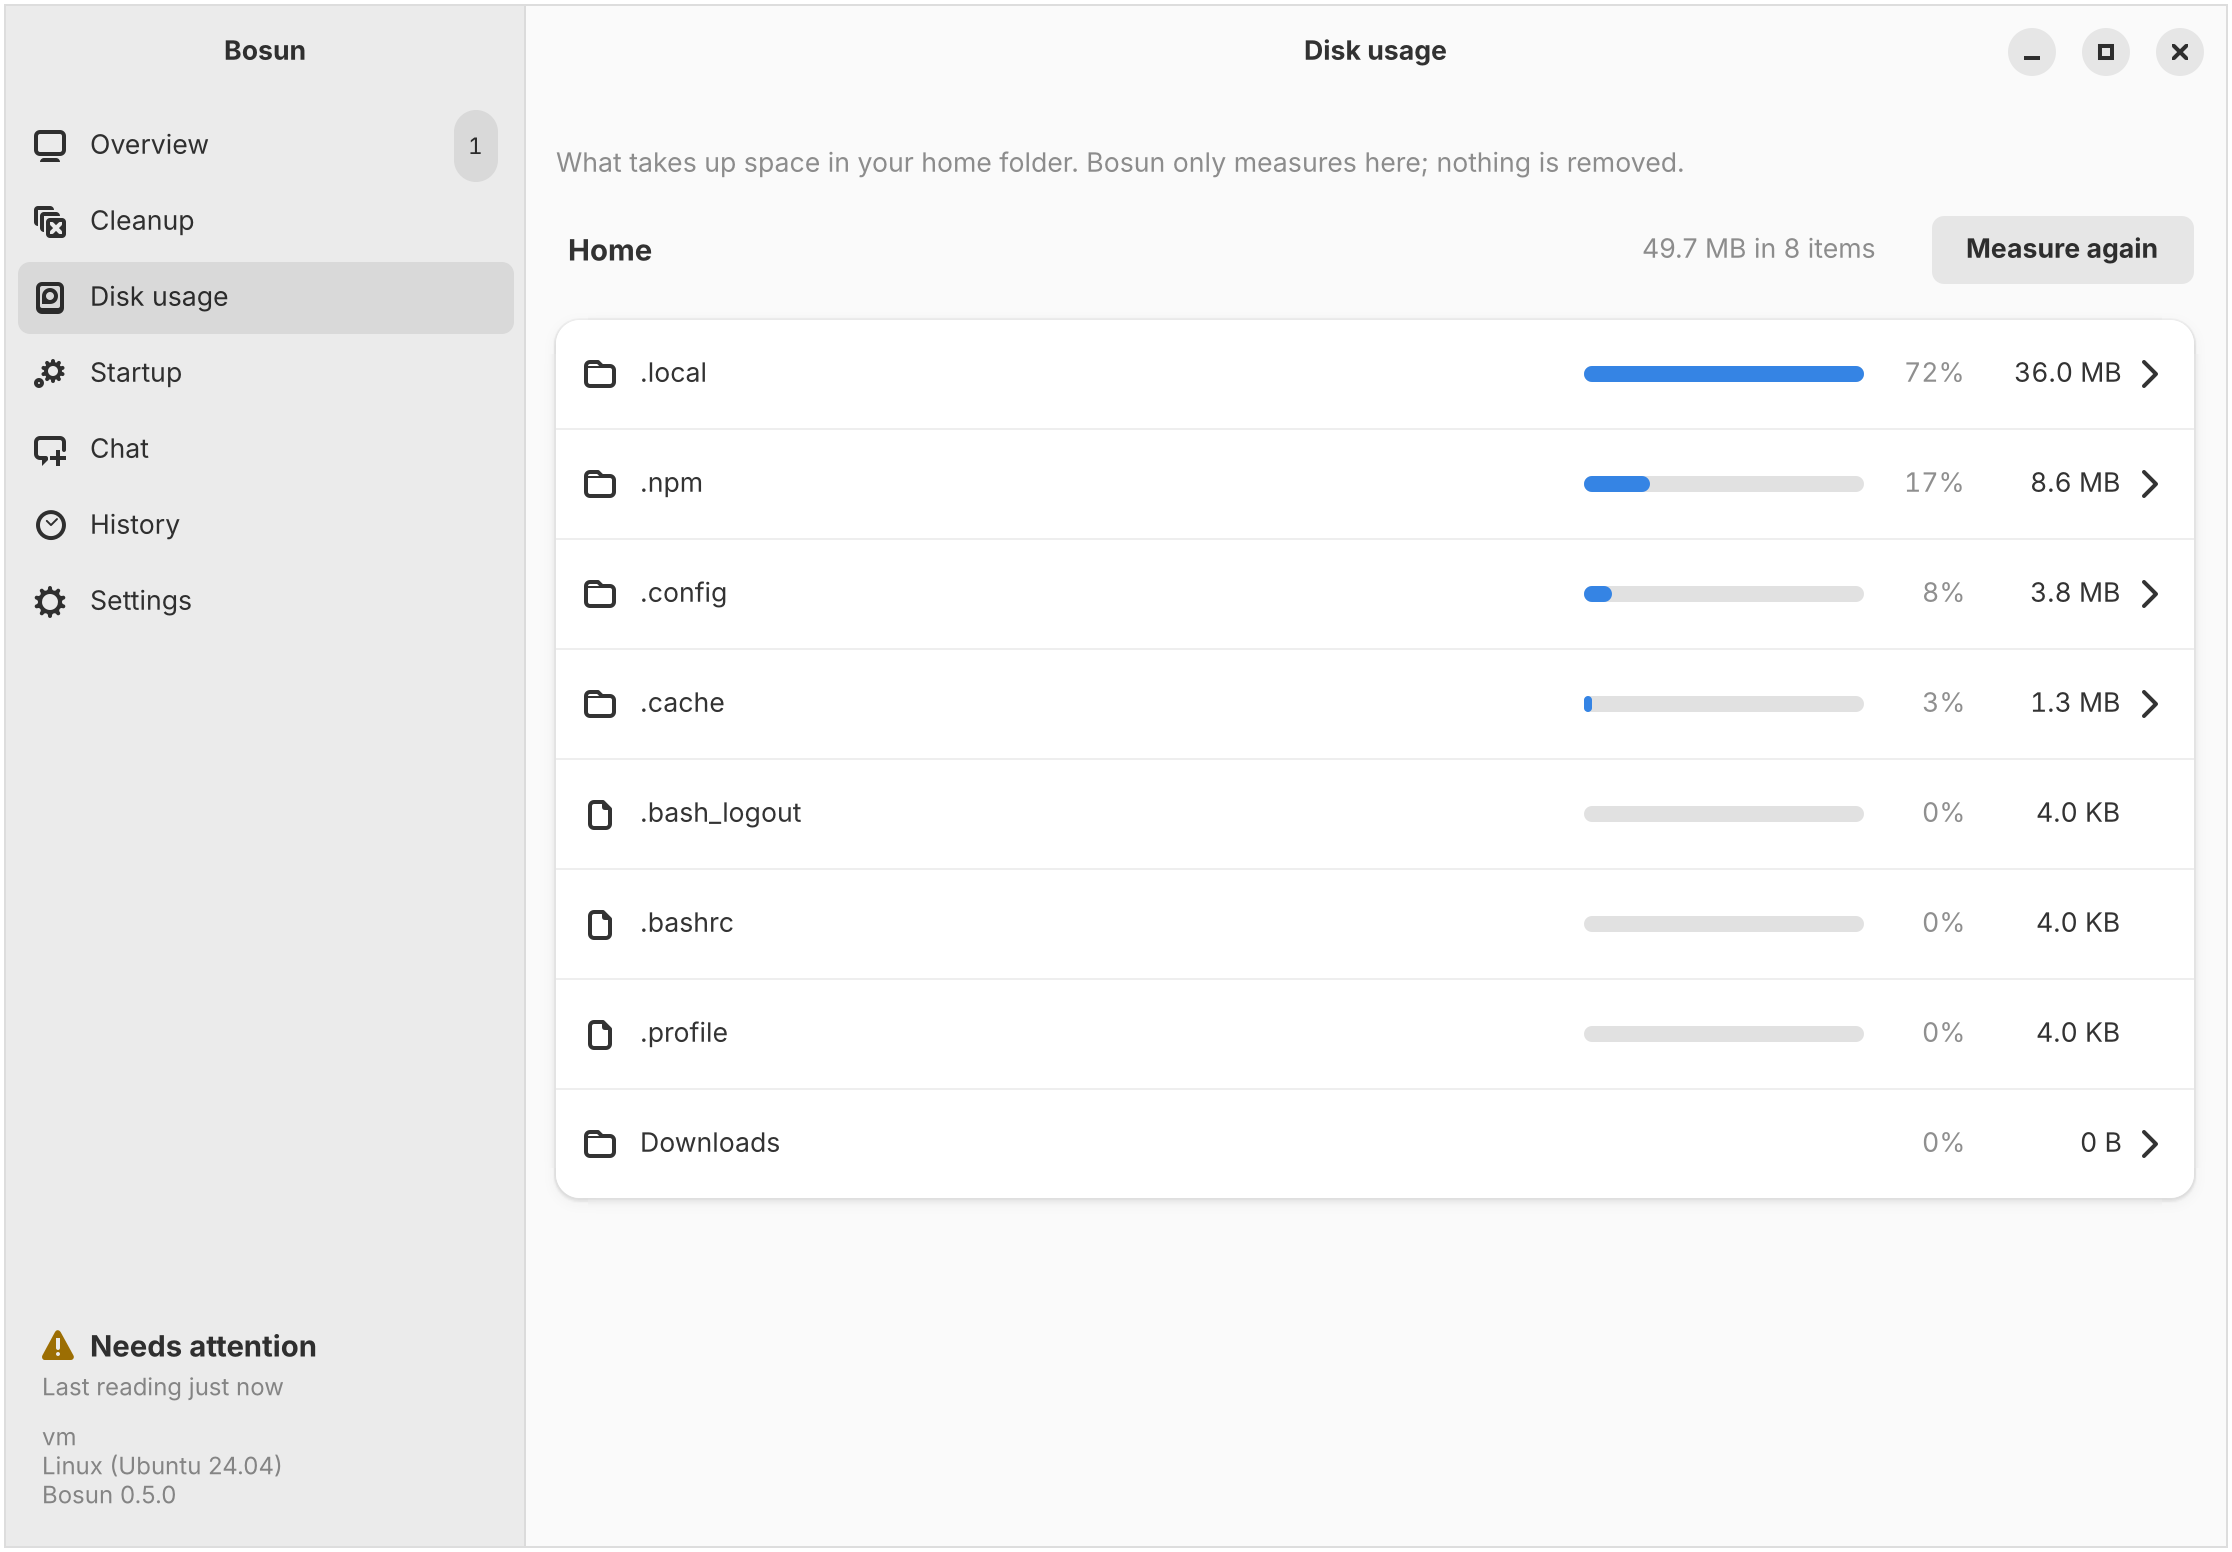
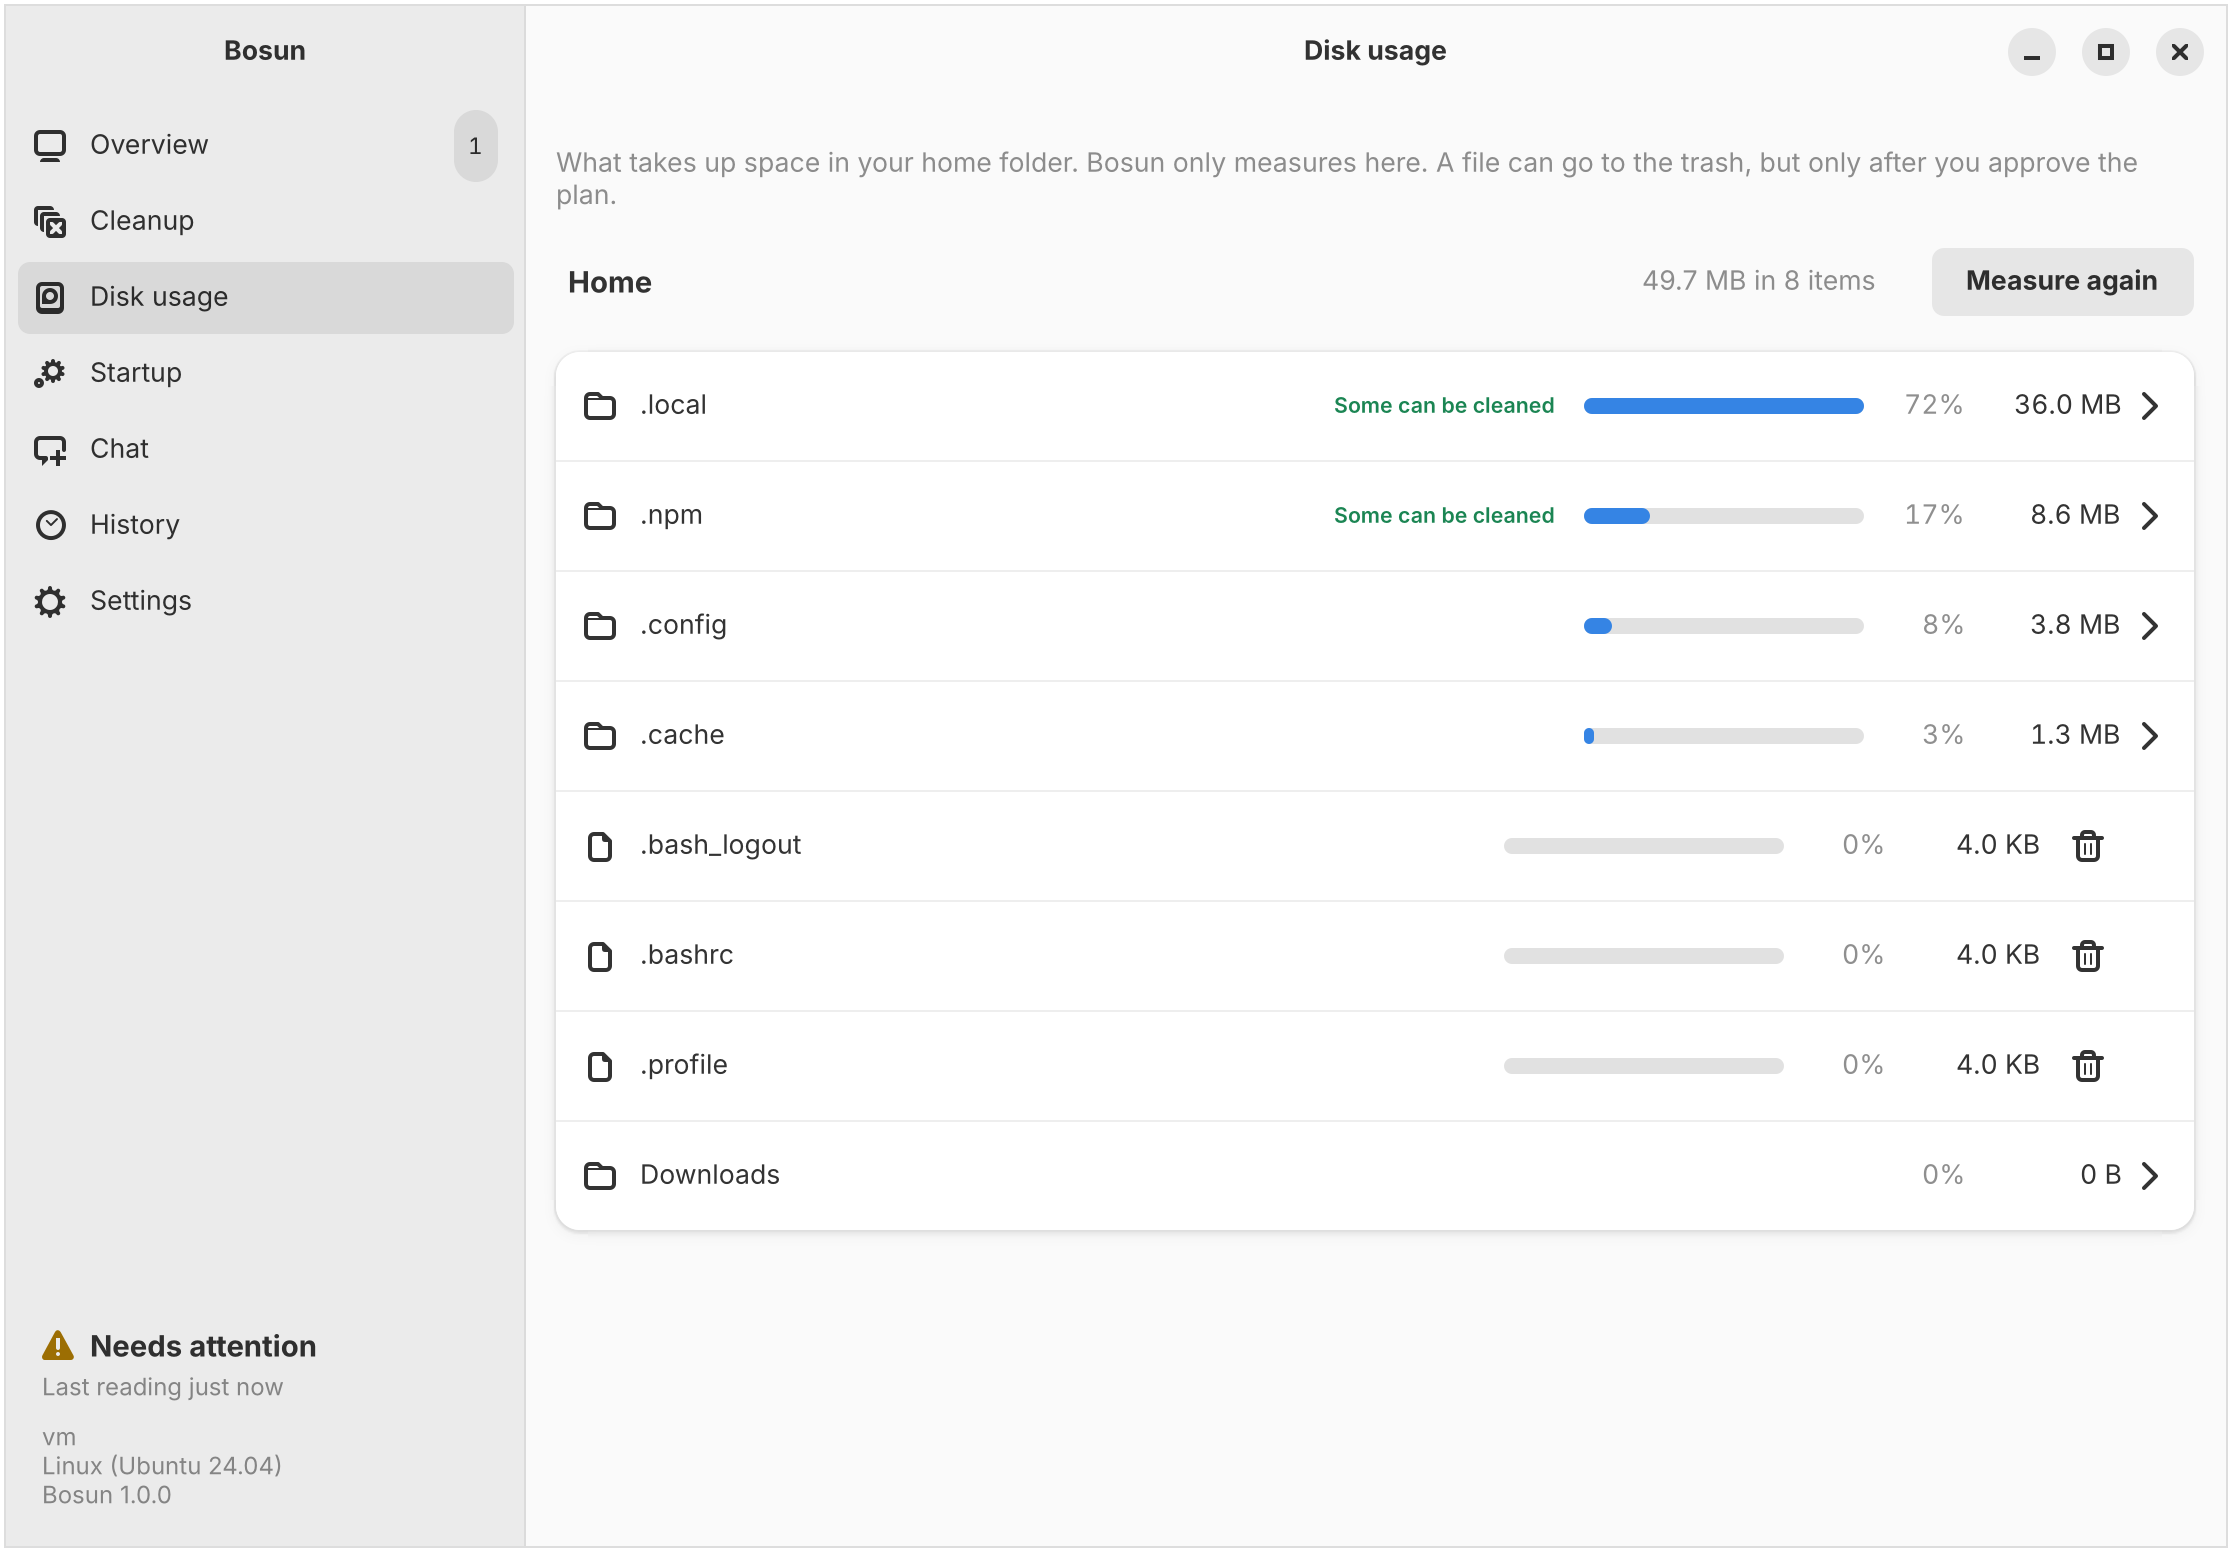
Let users move a picked file to the trash from Disk usage
Disk usage can now send one file to the trash. The request goes through a
new disk.plan call that checks the path is inside the home folder and not
protected, then opens the usual plan review. Nothing is removed until the
plan is approved, and the removal is a move to the trash, never a permanent
delete.

Also updates the intro text and refreshes the Disk usage screenshot.

Claude-Session: https://claude.ai/code/session_01Du41ffWd2Ab96ducbVj28N

diff --git a/crates/bosun-core/src/categories.rs b/crates/bosun-core/src/categories.rs
@@ -28,6 +28,8 @@ pub enum CategoryId {
     OrphanPackages,
     ResidualPackages,
     LargeFiles,
+    /// Disk kullanımı ekranından tek tek seçilen dosya.
+    ChosenFile,
 }
 
 /// Kullanıcıya gösterilen güvenlik seviyesi.
@@ -153,6 +155,7 @@ impl CategoryId {
             Self::OrphanPackages => "orphan_packages",
             Self::ResidualPackages => "residual_packages",
             Self::LargeFiles => "large_files",
+            Self::ChosenFile => "chosen_file",
         }
     }
 
@@ -192,6 +195,10 @@ impl CategoryId {
             Self::LargeFiles => (
                 "Large files in Downloads",
                 "İndirilenlerdeki büyük dosyalar",
+            ),
+            Self::ChosenFile => (
+                "File chosen in Disk usage",
+                "Disk kullanımından seçilen dosya",
             ),
         };
         lang.pick(en, tr)
@@ -275,6 +282,10 @@ impl CategoryId {
                 "System-wide configuration files left behind by removed packages. Requires administrator rights.",
                 "Kaldırılmış paketlerden geriye kalan sistem ayar dosyaları. Yönetici yetkisi gerekir.",
             ),
+            Self::ChosenFile => (
+                "A file you picked in Disk usage. It goes to the trash after you approve the plan.",
+                "Disk kullanımında sizin seçtiğiniz dosya. Planı onayladıktan sonra çöp kutusuna taşınır.",
+            ),
             Self::LargeFiles => (
                 "Downloaded files larger than 500 MB. Never removed automatically; pick them one by one.",
                 "500 MB'tan büyük indirilmiş dosyalar. Otomatik silinmez; tek tek seçmelisiniz.",
@@ -303,7 +314,7 @@ impl CategoryId {
             | Self::OrphanLaunchers
             | Self::OrphanPackages
             | Self::ContainerCache => Safety::Caution,
-            Self::LargeFiles | Self::LeftoverConfigs => Safety::ReviewOnly,
+            Self::LargeFiles | Self::LeftoverConfigs | Self::ChosenFile => Safety::ReviewOnly,
         }
     }
 
@@ -384,6 +395,8 @@ impl CategoryId {
                 .iter()
                 .map(|d| home.join(d))
                 .collect(),
+            // Bu kategorinin öğeleri yalnızca Disk ekranından gelir; yol, ev klasörüne göre denetlenir.
+            Self::ChosenFile => vec![home.to_path_buf()],
         }
     }
 

diff --git a/crates/bosun-core/src/plan.rs b/crates/bosun-core/src/plan.rs
@@ -198,6 +198,41 @@ impl CleanupPlan {
         }
     }
 
+    /// Disk ekranından seçilen tek bir dosya için plan. Yolun ev klasöründe ve korumasız
+    /// olduğunu çağıran taraf denetler; bu plan yalnızca çöp kutusuna taşıma içerir.
+    pub fn for_file(path: PathBuf, bytes: u64, origin: &str, lang: Lang) -> Self {
+        let category = CategoryId::ChosenFile;
+        let items = vec![PlanItem {
+            category,
+            path,
+            bytes,
+            method: Method::Trash,
+        }];
+        let summary = vec![CategorySummary {
+            category,
+            title: category.title(lang).into(),
+            method: Method::Trash,
+            items: 1,
+            bytes,
+        }];
+        let id = Uuid::new_v4();
+        let created_at = Utc::now();
+        let digest = digest(&id, &items);
+        CleanupPlan {
+            id,
+            created_at,
+            expires_at: created_at + Duration::minutes(PLAN_TTL_MINUTES),
+            origin: origin.into(),
+            reason: None,
+            total_bytes: bytes,
+            has_permanent: false,
+            items,
+            summary,
+            blocked: Vec::new(),
+            digest,
+        }
+    }
+
     /// Onayın geçerli olup olmadığını denetler.
     pub fn check_approval(
         &self,
@@ -246,6 +281,20 @@ fn digest(id: &Uuid, items: &[PlanItem]) -> String {
 mod tests {
     use super::*;
     use crate::scan::{CategoryScan, ScanItem};
+
+    #[test]
+    fn file_plan_is_trash_only_and_needs_its_digest() {
+        let plan = CleanupPlan::for_file("/h/big.iso".into(), 5000, "user", Lang::En);
+        assert_eq!(plan.items.len(), 1);
+        assert_eq!(plan.items[0].method, Method::Trash);
+        assert!(!plan.has_permanent);
+        assert_eq!(plan.total_bytes, 5000);
+        assert!(plan.check_approval(&plan.digest, Utc::now()).is_ok());
+        assert_eq!(
+            plan.check_approval("wrong", Utc::now()),
+            Err(ApproveError::DigestMismatch)
+        );
+    }
 
     fn fake_scan() -> ScanResult {
         let mk = |id: CategoryId, paths: &[(&str, u64)]| CategoryScan {

diff --git a/crates/bosun-gtk/src/pages/disk.rs b/crates/bosun-gtk/src/pages/disk.rs
@@ -1,4 +1,5 @@
-//! Disk kullanımı: ev klasöründe yer kaplayanlar, büyükten küçüğe. Yalnızca ölçer, silmez.
+//! Disk kullanımı: ev klasöründe yer kaplayanlar, büyükten küçüğe. Ölçer; dosya silmek
+//! yalnızca onaylanmış bir planla, çöp kutusuna taşıyarak yapılır.
 
 use crate::client;
 use crate::i18n::{self, t, tv};
@@ -157,6 +158,18 @@ impl Disk {
         });
     }
 
+    /// Seçilen dosya için plan ister ve onay penceresini açar. Silme orada onaylanınca olur.
+    fn plan_trash(self: &Rc<Self>, path: PathBuf) {
+        glib::spawn_future_local(async move {
+            let r =
+                client::get::<bosun_core::CleanupPlan>("disk.plan", json!({ "path": path })).await;
+            match r {
+                Ok(plan) => crate::dialogs::plan(plan),
+                Err(e) => shell().toast(&ui::error_text(&e)),
+            }
+        });
+    }
+
     fn render(self: &Rc<Self>) {
         let guard = self.listing.borrow();
         let Some((l, home)) = guard.as_ref() else {
@@ -252,6 +265,16 @@ impl Disk {
             size.set_width_chars(8);
             size.set_xalign(1.0);
             r.add_suffix(&size);
+            if !e.is_dir && !e.other_fs {
+                let trash = ui::icon_button("user-trash-symbolic", &t("disk.trashTip"));
+                let (p, path) = (Rc::downgrade(self), e.path.clone());
+                trash.connect_clicked(move |_| {
+                    if let Some(p) = p.upgrade() {
+                        p.plan_trash(path.clone());
+                    }
+                });
+                r.add_suffix(&trash);
+            }
             let go = gtk::Image::from_icon_name("go-next-symbolic");
             r.add_suffix(&go);
             if !e.is_dir || e.other_fs {

diff --git a/crates/bosund/src/server/cleanup.rs b/crates/bosund/src/server/cleanup.rs
@@ -62,6 +62,26 @@ pub async fn handle(ctx: &Ctx, method: &str, p: &Value) -> Result<Value> {
             }
             Ok(json!({"cancelled": true}))
         }
+        "disk.plan" => {
+            // Disk ekranında seçilen tek bir dosya: yalnızca ev klasöründe, korumasız ve
+            // dosya olmalı. Silme yine onay penceresinden geçer.
+            let wanted = std::path::PathBuf::from(param_str(p, "path")?);
+            let (home, policy) = {
+                let st = ctx.state.read().await;
+                (st.policy.home().to_path_buf(), st.policy.clone())
+            };
+            let path = policy
+                .validate(&wanted, &home)
+                .map_err(|e| anyhow::anyhow!("{e}"))?;
+            let meta = std::fs::metadata(&path)?;
+            anyhow::ensure!(meta.is_file(), "only single files can be picked here");
+            let lang = ctx.state.read().await.cfg.language;
+            let plan = CleanupPlan::for_file(path, meta.len(), "user", lang);
+            ctx.audit.append("plan_created", json!({"plan_id": plan.id, "origin": "user", "total_bytes": plan.total_bytes, "summary": plan.summary}));
+            let preview = plan.preview(30);
+            ctx.state.write().await.plans.insert(plan.id, plan);
+            Ok(serde_json::to_value(preview)?)
+        }
         "plan.approve" => approve(ctx, p).await,
         _ => unreachable!("cleanup does not handle {method}"),
     }

diff --git a/crates/bosund/src/server/mod.rs b/crates/bosund/src/server/mod.rs
@@ -144,7 +144,7 @@ pub async fn dispatch(ctx: &Ctx, req: &Request) -> Result<Value> {
             status::handle(ctx, m, p).await
         }
         "scan" | "scan.cancel" | "scan.inspect" | "plan.create" | "plan.cancel"
-        | "plan.approve" => cleanup::handle(ctx, m, p).await,
+        | "plan.approve" | "disk.plan" => cleanup::handle(ctx, m, p).await,
         "chat" | "chat.history" | "chat.reset" => chat::handle(ctx, m, p).await,
         "settings.get" | "settings.set" => settings::handle(ctx, m, p).await,
         "admin.info" | "admin.applied" | "admin.report" => admin::handle(ctx, m, p).await,

diff --git a/crates/bosun-core/src/scan/mod.rs b/crates/bosun-core/src/scan/mod.rs
@@ -232,6 +232,8 @@ pub fn scan_category_with(
                 (name.ends_with(".log") || name.contains(".log.")) && is_stale(m, stale)
             },
         ),
+        // Disk ekranından seçilen dosyalar taramada aranmaz.
+        CategoryId::ChosenFile => Vec::new(),
         CategoryId::LargeFiles => {
             let mut v = Vec::new();
             for r in &roots {
